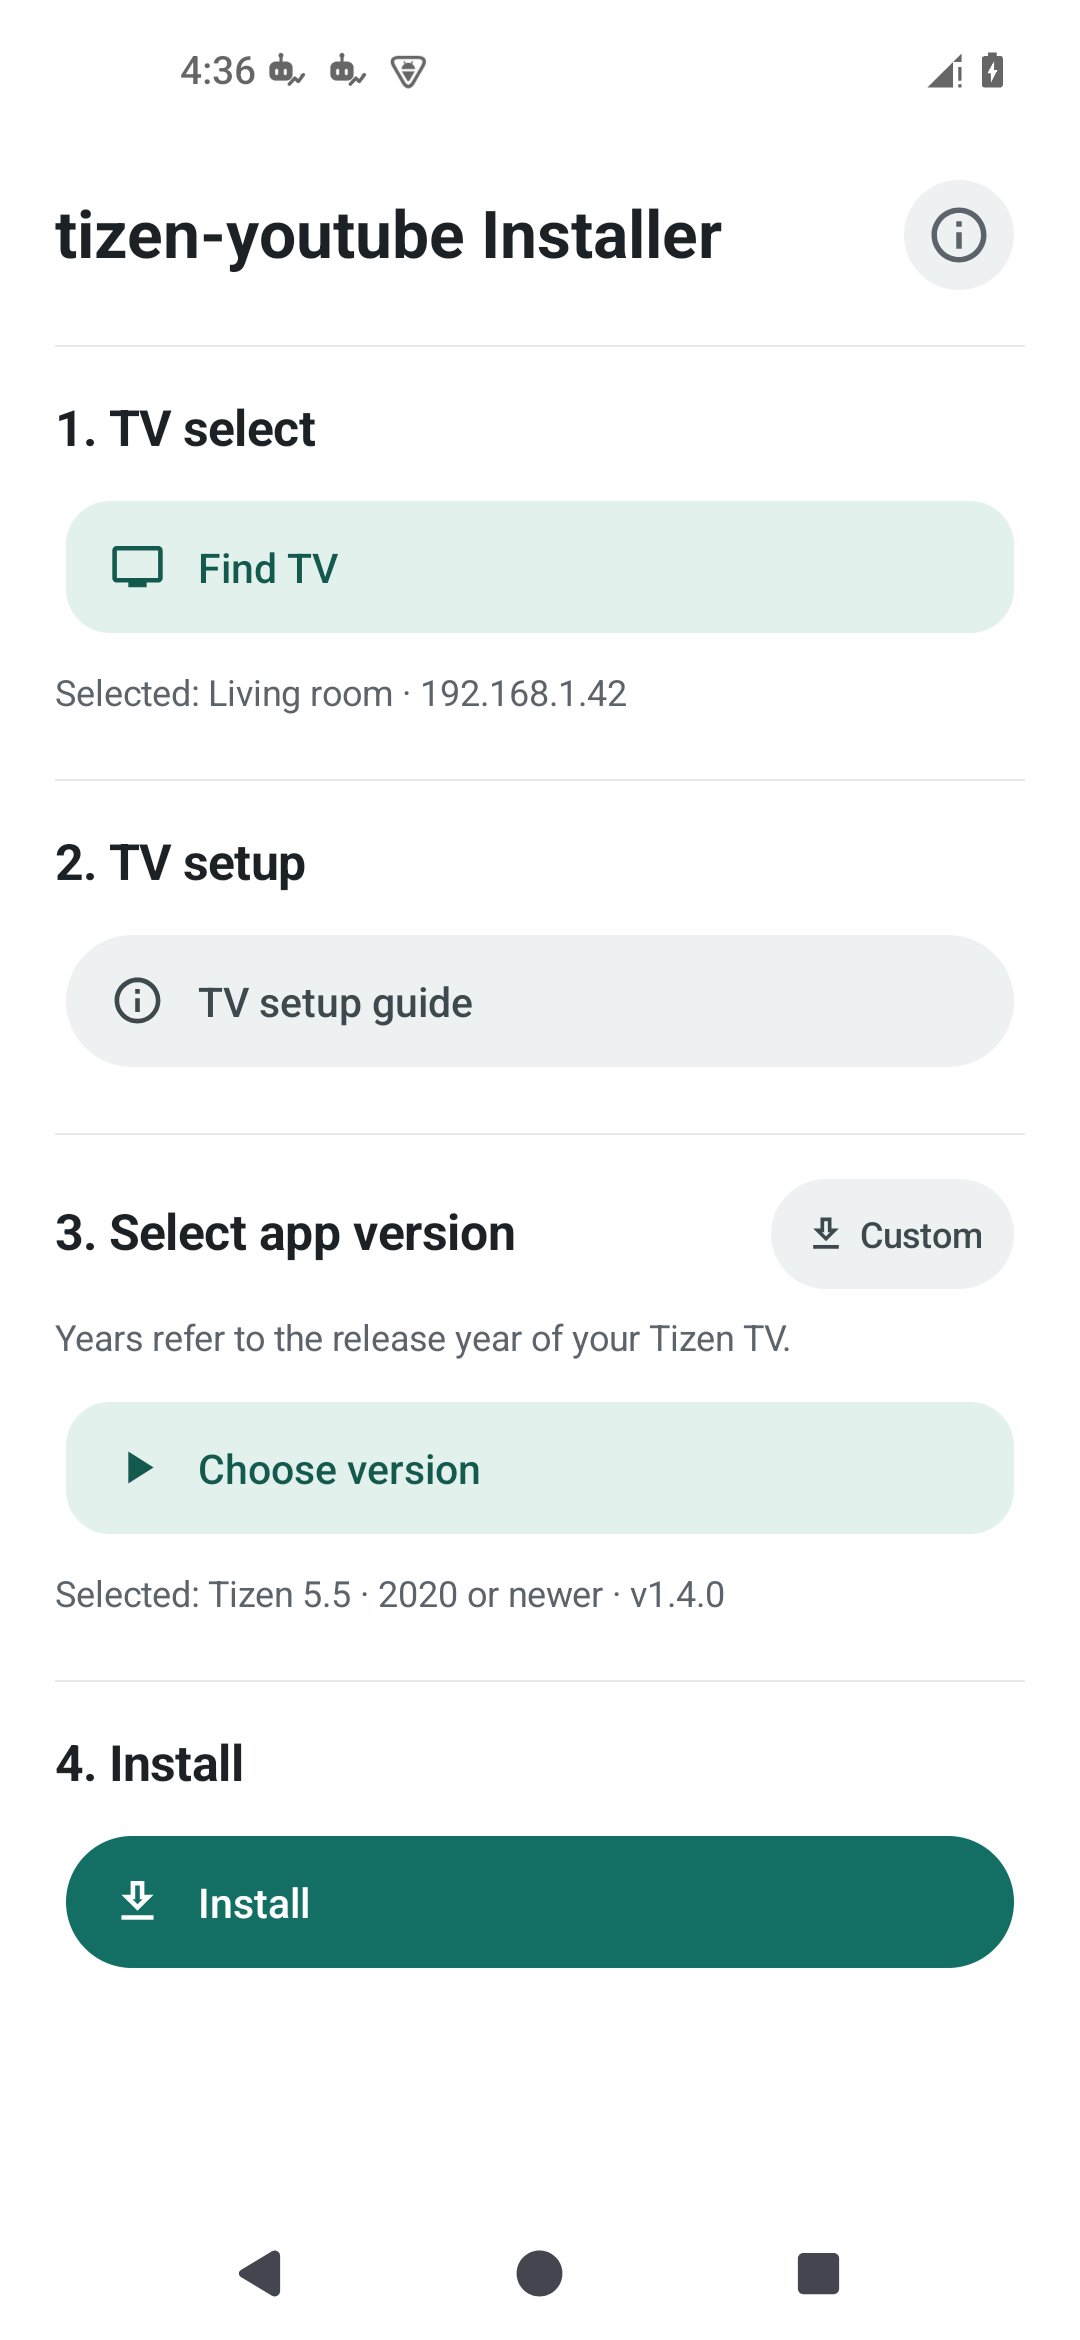
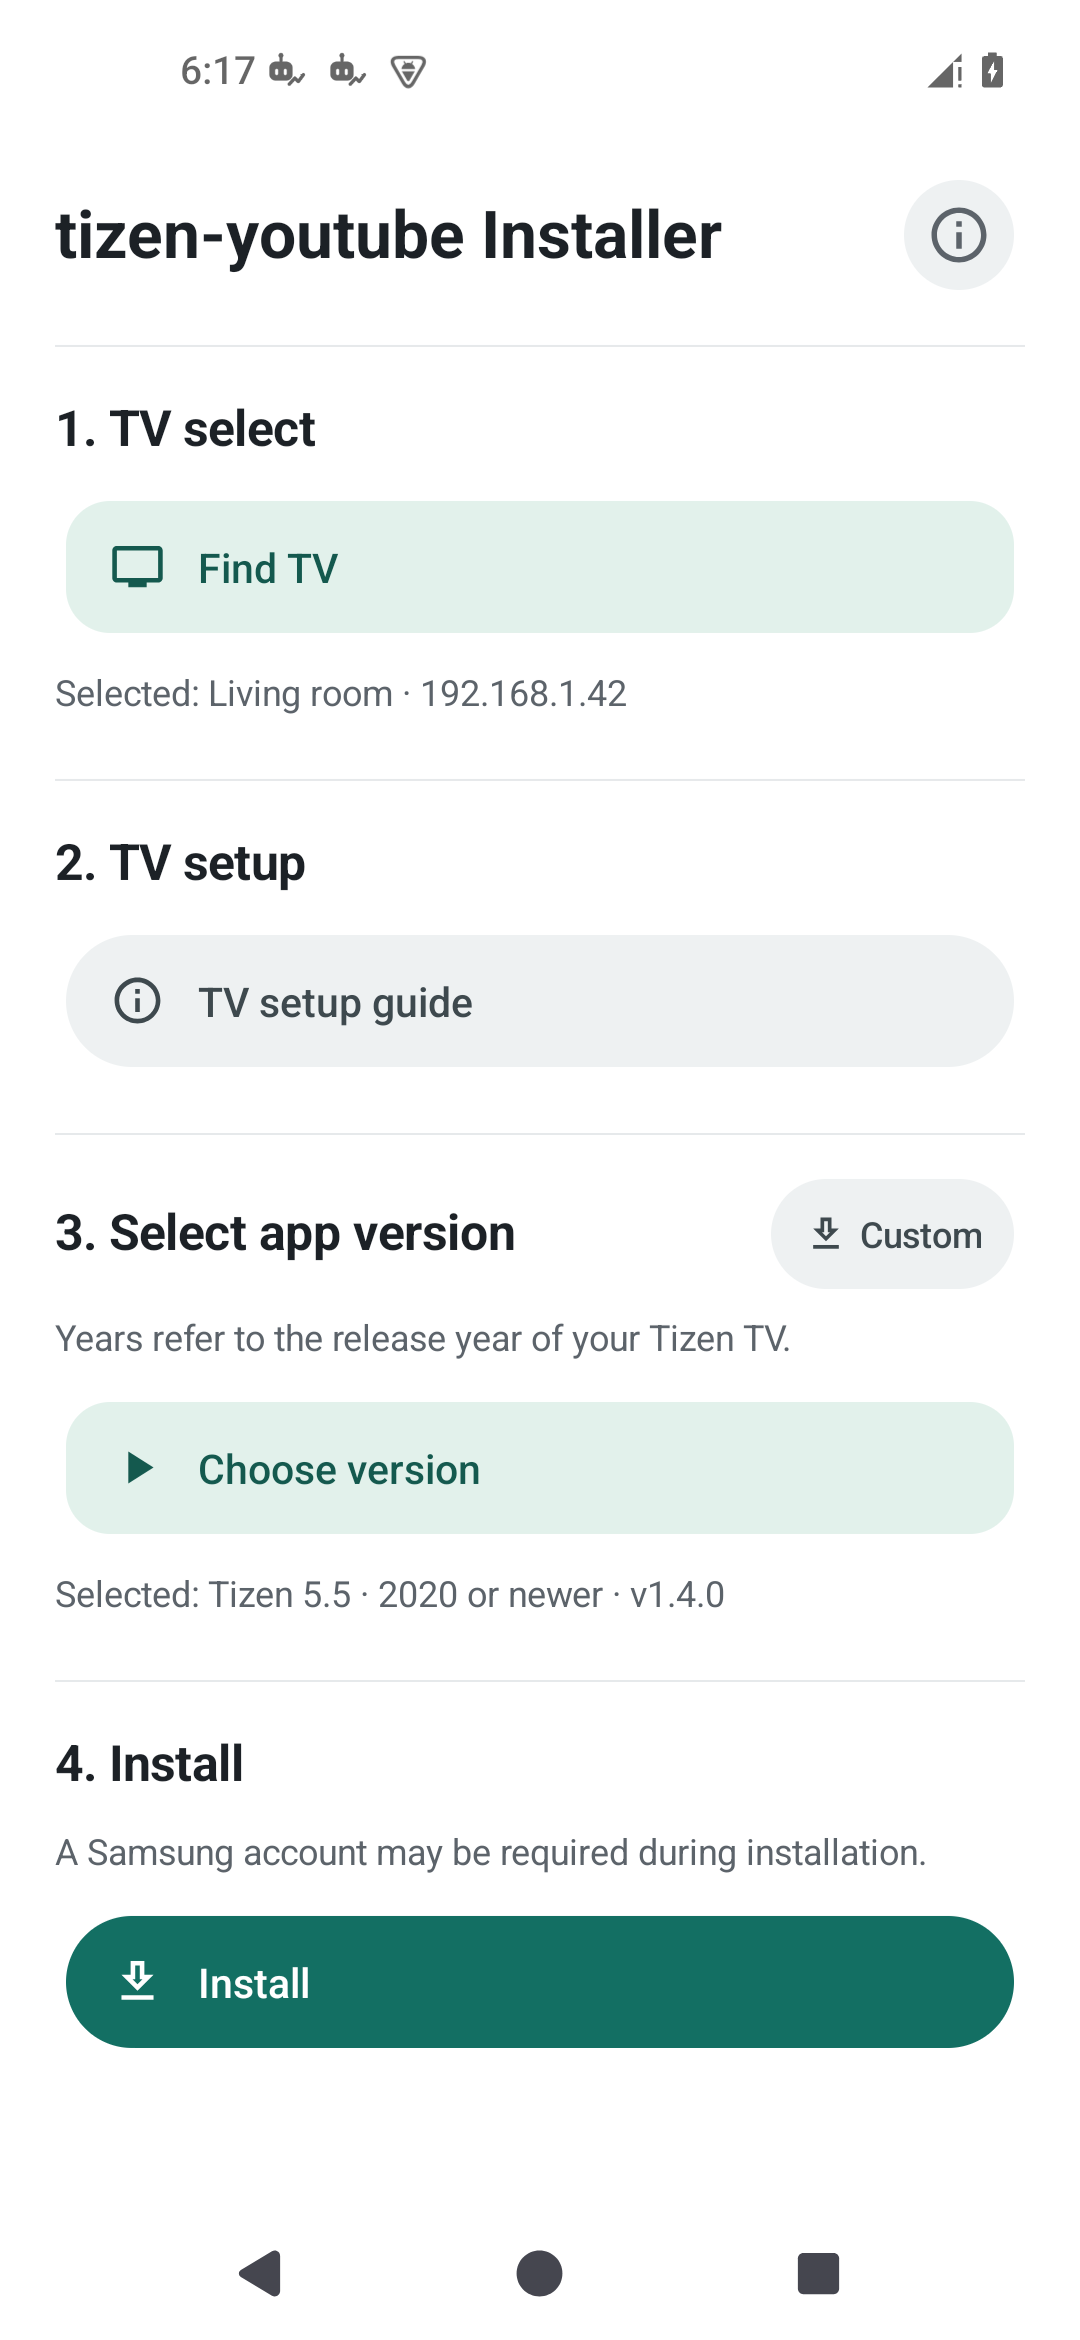
Explain Samsung account requirement in install step

Changed region(s): [[0.0611, 0.7799, 0.9472, 0.8735]]

diff --git a/app/src/main/kotlin/dev/readiz/wgtinstaller/MainActivity.kt b/app/src/main/kotlin/dev/readiz/wgtinstaller/MainActivity.kt
@@ -138,6 +138,7 @@ class MainActivity : Activity() {
 
         divider(body)
         body.addView(text(getString(R.string.install_title), 18, true))
+        body.addView(text(getString(R.string.samsung_account_note), 13).apply { setTextColor(muted) })
         install = button(R.string.install) { confirmInstall() }; body.addView(install)
         activitySection = column(); body.addView(activitySection)
         status = text("", 14, true).apply { accessibilityLiveRegion = View.ACCESSIBILITY_LIVE_REGION_POLITE }

diff --git a/README.md b/README.md
@@ -6,9 +6,9 @@ An independent Android installer focused on tizen-youtube. No PC, Termux, or TV-
 
 Made possible by the work of **SushyDev, reisxd, the Apps2Samsung authors, and the Tizen homebrew community**. See [Inspiration and credits](#inspiration-and-credits) for implementation sources and related projects.
 
-**Android 8.0+ · English** · [Build an APK](docs/BUILDING.md) · [CI builds](https://github.com/Readiz/tizen-youtube-installer/actions/workflows/android.yml)
+**[Download APK (experimental)](https://github.com/Readiz/tizen-youtube-installer/releases/download/v0.3.19-experimental/tizen-youtube-installer-0.3.19-experimental.apk)** · Android 8.0+ · English · [Build an APK](docs/BUILDING.md) · [CI builds](https://github.com/Readiz/tizen-youtube-installer/actions/workflows/android.yml)
 
-Screenshots and steps below describe the 0.3.18 development build.
+Screenshots and steps below describe version 0.3.19.
 
 <p>
   <img src="docs/images/home.png" alt="English home screen with the selected TV and app version" width="260">
@@ -33,7 +33,7 @@ Search and lookup progress appears directly under the corresponding step; instal
 1. **TV select.** Connect the phone and TV to the same Wi-Fi, then tap **Find TV**. Choose a TV in the popup, even when only one is found. **Enter another TV IP** is always available at the bottom for manual entry, including when no TV is found.
 2. **TV setup.** Open **TV setup guide** for the illustrated Developer Mode and phone-IP instructions. Return here after setting up the TV.
 3. **Select app version.** Tap **Choose version**, then choose **Tizen 5.5 for 2020 or newer models** or **Tizen 5.0 for 2019 models** in the popup. The years refer to the Tizen TV’s release year. No repository entry or file list appears on the home screen.
-4. **Install.** Tap **Install** in section 4. Check the file, publisher and TV in the confirmation popup, then confirm that you trust the source. If prompted, sign in to Samsung in the browser and return to the installer.
+4. **Install.** A Samsung account may be required during installation. Tap **Install** in section 4. Check the file, publisher and TV in the confirmation popup, then confirm that you trust the source. If prompted, sign in to Samsung in the browser and return to the installer.
 
 **Custom install:** tap **Custom** beside Select app version. **Find app** opens a GitHub repository input. Enter `owner/repo` or `https://github.com/owner/repo`, then tap **Find app** to choose a WGT from that repository’s latest public release. The additional **Custom** button opens the phone’s WGT picker. Local files are limited to 64 MiB. The app is English-only, including on phones that previously saved Korean as the app language.
 

diff --git a/docs/TEST_REPORT.md b/docs/TEST_REPORT.md
@@ -1,13 +1,26 @@
 # Verification report — tizen-youtube Installer
 
-## Current build — 0.3.18 / 2026-10-17
+## Current build — 0.3.19 / 2026-10-17
 
-Native Android app, versionCode **27**, versionName **0.3.18-experimental**.
+Native Android app, versionCode **28**, versionName **0.3.19-experimental**.
 The four-step flow is **TV select → TV setup → Select app version → Install**.
 The app is English-only. Selected TV and app summaries use **Selected:**;
 TV names decode entities for display, and each operation shows progress in its own step.
 
-## Custom repository flow and UI verification
+## Current verification — 0.3.19
+
+- Step 4 displays **A Samsung account may be required during installation.**
+  directly above Install, using the same subdued text style as the version note.
+- APK and test APK build passed. Android lint: **0 errors / 5 existing warnings**.
+- Existing screenshot instrumentation passed (**1 test**); inspected the selected
+  home screen. Also checked step 4 at **320 dp / 160% font scale**: the notice wraps
+  to two lines and stays fully visible above the button. README home image refreshed.
+- In-place emulator update, package versionCode 28 and unchanged signing
+  certificate were verified. No new behavioral test was added for this copy-only
+  change; the 14-test regression and live lookup results below belong to 0.3.18.
+- No physical TV installation or live Samsung sign-in was repeated.
+
+## Previous verification — 0.3.18
 
 - Custom → Find app now opens a GitHub repository input. It accepts `owner/repo`
   or an HTTPS GitHub repository URL (including `.git`); malformed input remains
@@ -46,7 +59,7 @@ physical TV installation, live Samsung sign-in/certificate issuance or a WGT dow
 
 | Item | Value |
 | --- | --- |
[3 lines of base64/hex data omitted]
 | Android test runtime | Android 15 / API 35 emulator |
 | Build environment | JDK 17, Gradle 8.11.1, Android SDK 36 / Build Tools 35.0.0 |
